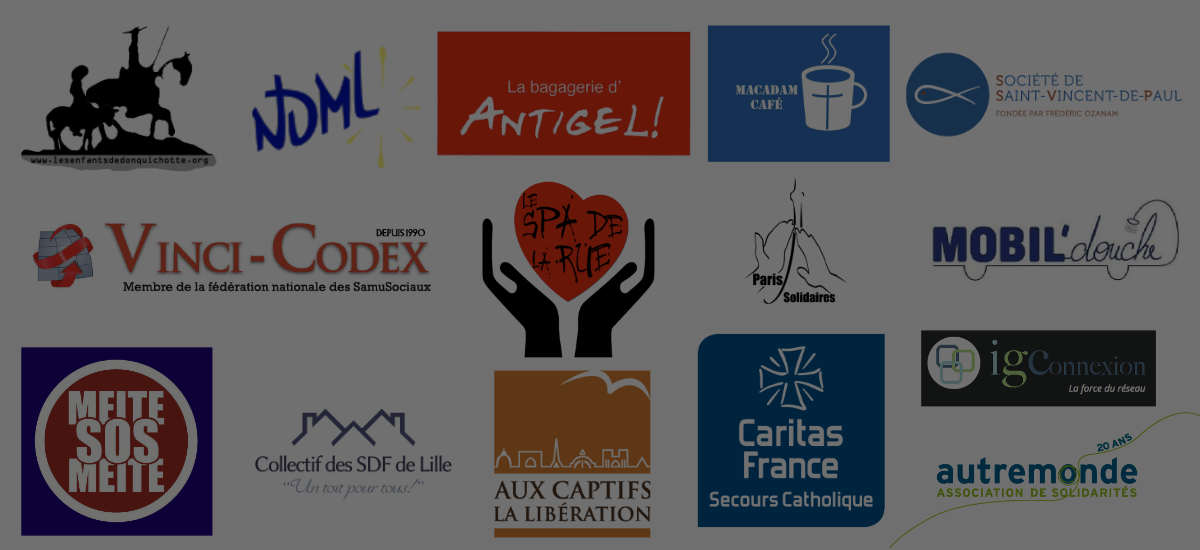
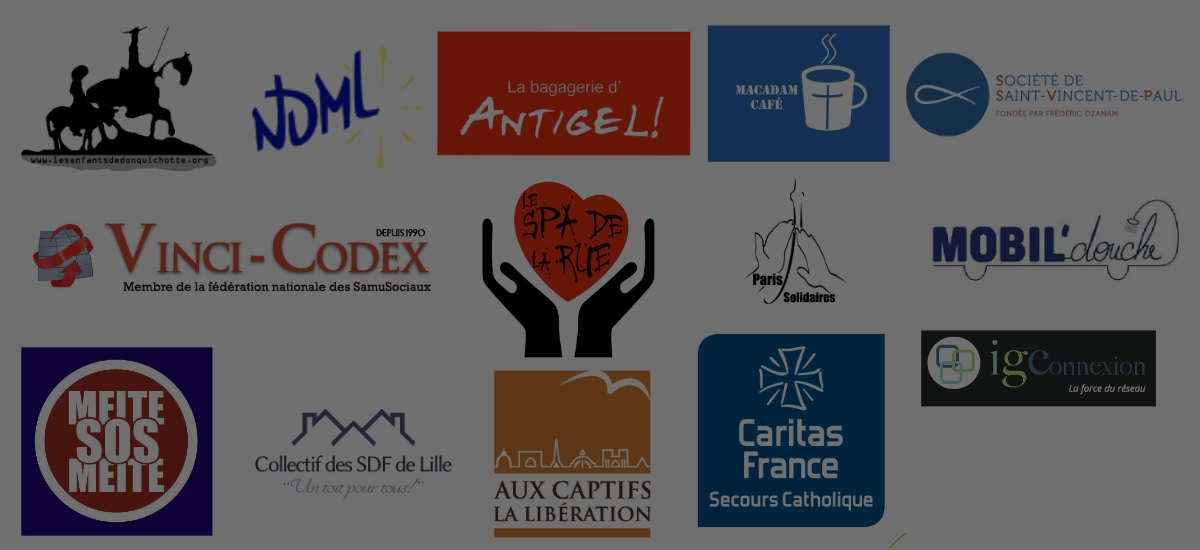
Removing Autremonde

Changed region(s): [[0.7708, 0.7727, 0.9558, 0.9273], [0.9558, 0.7418, 1.0, 0.7727]]

diff --git a/associations.html b/associations.html
@@ -184,10 +184,6 @@
           L’association <a href="http://www.captifs.fr/" target="_blank">Aux Captifs la Libération</a> est née pour « entendre le cri de la rue ». Aujourd’hui, elle accompagne les personnes de la rue en réalisant de nombreuses maraudes sociales.
           Pour Thibault, responsable des tournées-rue aux Captifs, “la rue est une captivité” : <a href="http://blog.entourage.social/2016/02/05/thibault-la-rue-est-une-captivite/" target="_blank">retrouvez son témoignage en intégralité sur notre blog.</a>
           </p>
-          <h3>Autre Monde</h3>
-          <p>
-          <a href="http://www.autremonde.org/" target="_blank">Autre Monde</a> est une association parisienne implantée dans le 20ème arrondissement, constituée d’acteurs désireux d’agir dans le sens d’un décloisonnement de la société. Indépendante de tout parti politique, non confessionnelle et militante, Autremonde intervient depuis 20 ans pour et avec les personnes en situation d’exclusion et de migration, pour défendre le lien social et la mixité.
-          </p>
           <h3>ANTIGEL</h3>
           <p>
           ANTIGEL est une activité caritative de la paroisse <a href="http://www.sjbg.org/" target="_blank">Saint Jean-Baptiste de Grenelle</a>. Depuis plus de 11 ans, plusieurs soirs par semaine, des volontaires visitent les personnes plus pauvres du XVe arrondissement de Paris. Au cours de ces rencontres, certaines personnes SDF ont émis le souhait d’avoir un endroit où poser leurs bagages : <a href="http://www.la-croix.com/Solidarite/Idees-pour-agir/La-bagagerie-d-Antigel-soulagera-les-SDF-_NG_-2010-06-10-575791" target="_blank">la Bagagerie Antigel</a> existe depuis 2010.
